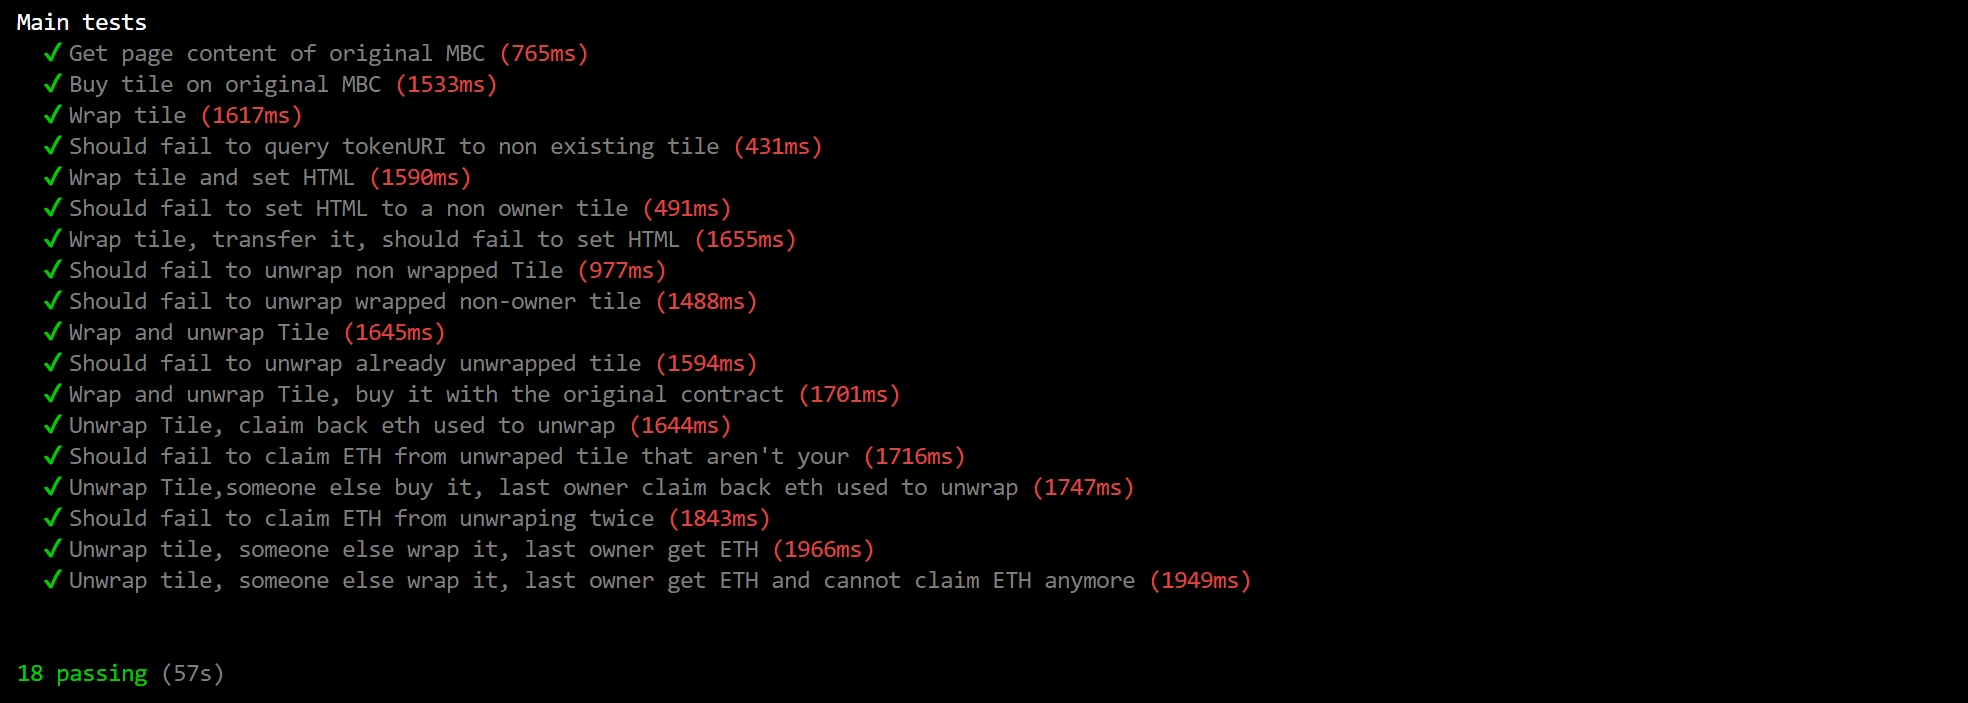
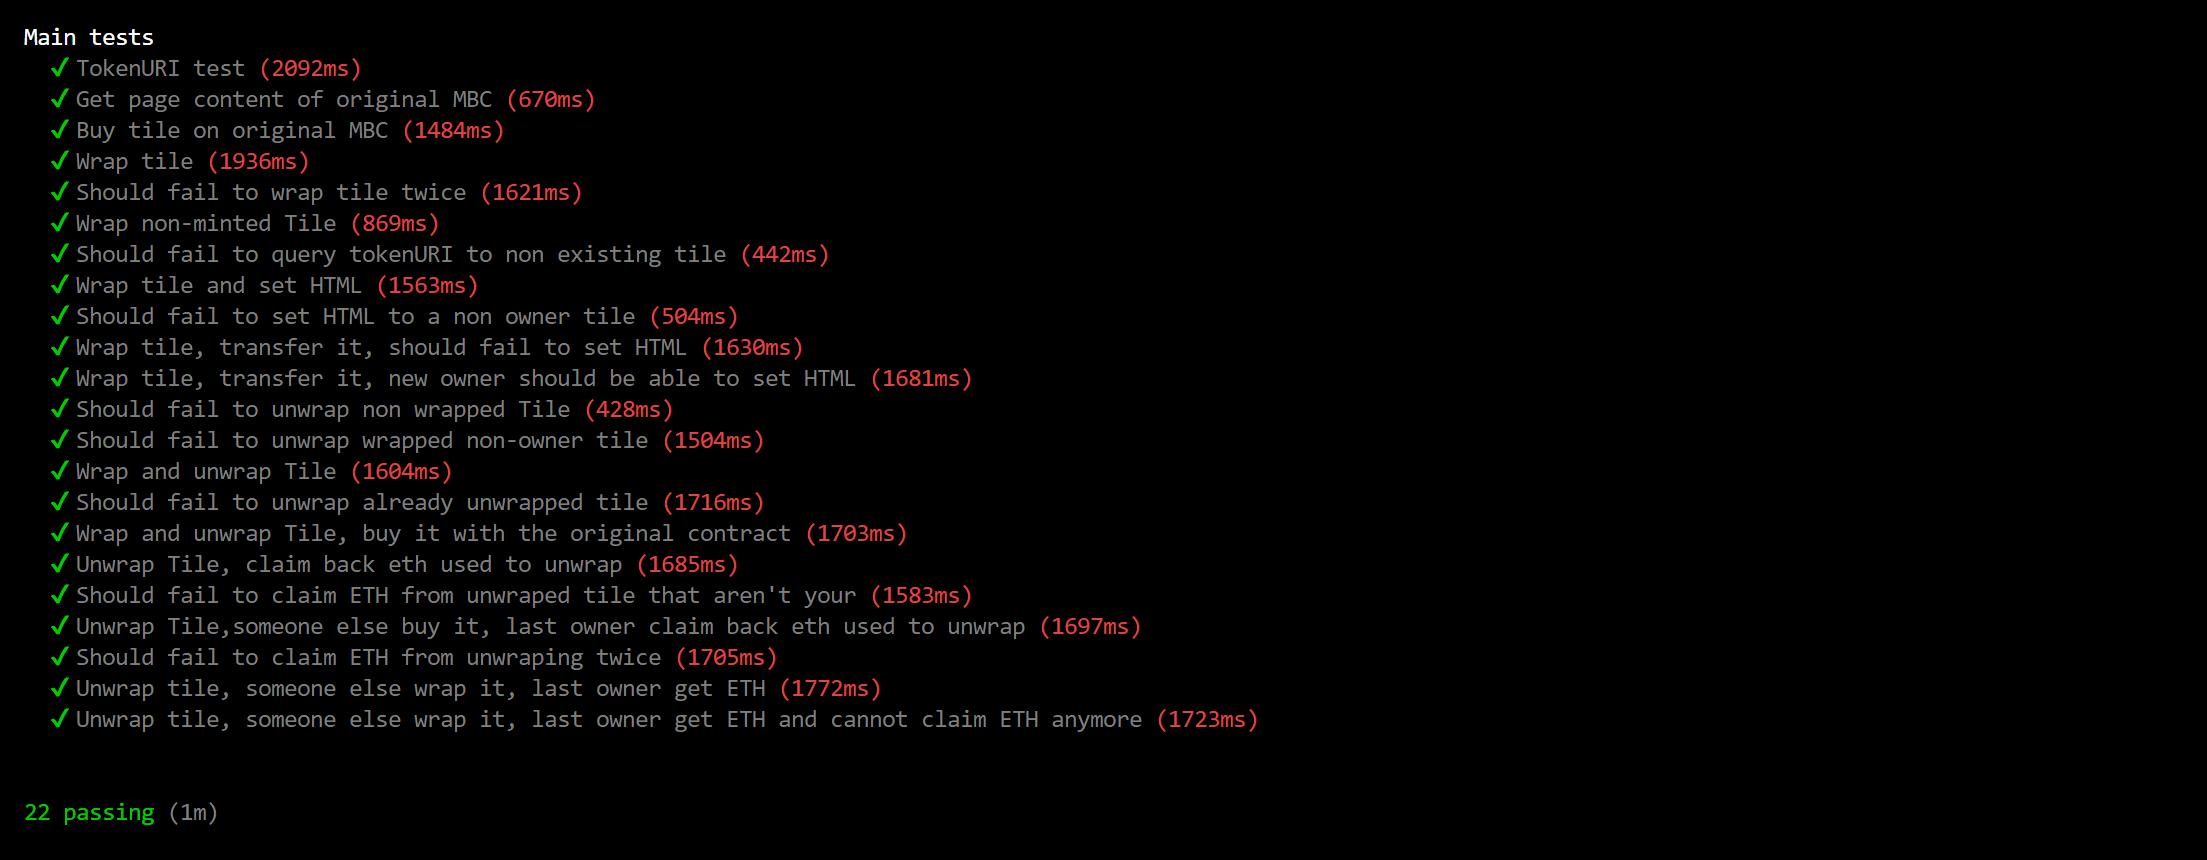
wip

Changed region(s): [[0.0, 0.0, 0.6509, 0.8663], [0.0, 0.926, 0.124, 0.9858]]

diff --git a/test/Lock.ts b/test/Lock.ts
@@ -74,164 +74,175 @@ describe("Main tests", function () {
     await ctx.wrapped_mbc.connect(ctx.imp_gus).wrap(1, 2, 0, "", { value: ethers.utils.parseEther("2.4") });
     const tokenId = await ctx.wrapped_mbc.coordinateToTokenID(1, 2, 0);
     const tokenURI = await ctx.wrapped_mbc.tokenURI(tokenId);
-    console.log(tokenURI);
   });
 
-  // it("Get page content of original MBC", async () => {
-  //   const ctx = await newContext();
-  //   const res = await ctx.mbc.pages(0, 0, 0);
-  //   expect(res[1]).to.equal("<h1>HELLO WORLD</h1>");
-  // });
+  it("Get page content of original MBC", async () => {
+    const ctx = await newContext();
+    const res = await ctx.mbc.pages(0, 0, 0);
+    expect(res[1]).to.equal("<h1>HELLO WORLD</h1>");
+  });
 
-  // it("Buy tile on original MBC", async () => {
-  //   const ctx = await newContext();
-  //   await ctx.mbc.connect(ctx.imp_gus).buyTile(0, 0, 1, "hi", { value: ethers.utils.parseEther("15") });
-  // });
+  it("Buy tile on original MBC", async () => {
+    const ctx = await newContext();
+    await ctx.mbc.connect(ctx.imp_gus).buyTile(0, 0, 1, "hi", { value: ethers.utils.parseEther("15") });
+  });
 
-  // it("Wrap tile", async () => {
-  //   const ctx = await newContext();
-  //   await ctx.wrapped_mbc.connect(ctx.imp_gus).wrap(0, 0, 1, "", { value: ethers.utils.parseEther("15") });
-  //   const tokenId = await ctx.wrapped_mbc.coordinateToTokenID(0, 0, 1);
-  //   const tokenURI = await ctx.wrapped_mbc.tokenURI(tokenId);
-  // });
+  it("Wrap tile", async () => {
+    const ctx = await newContext();
+    await ctx.wrapped_mbc.connect(ctx.imp_gus).wrap(0, 0, 1, "", { value: ethers.utils.parseEther("15") });
+    const tokenId = await ctx.wrapped_mbc.coordinateToTokenID(0, 0, 1);
+    const tokenURI = await ctx.wrapped_mbc.tokenURI(tokenId);
+  });
 
-  // it("Should fail to query tokenURI to non existing tile", async () => {
-  //   const ctx = await newContext();
-  //   await shouldFail(async () => await ctx.wrapped_mbc.tokenURI(ethers.BigNumber.from("546454")), "ERC721: invalid token ID");
-  // });
-
-  // it("Wrap tile and set HTML", async () => {
-  //   const ctx = await newContext();
-  //   await ctx.wrapped_mbc.connect(ctx.imp_gus).wrap(0, 0, 1, "hi gus", { value: ethers.utils.parseEther("15") });
-  //   const res = await ctx.mbc.pages(0, 0, 1);
-  //   expect(res[1]).to.equal("hi gus");
-  //   await ctx.wrapped_mbc.connect(ctx.imp_gus).setHtml(0, 0, 1, "osirfjior");
-  //   const res2 = await ctx.mbc.pages(0, 0, 1);
-  //   expect(res2[1]).to.equal("osirfjior");
-  // });
-
-  // it("Should fail to set HTML to a non owner tile", async () => {
-  //   const ctx = await newContext();
-  //   await shouldFail(async () => await ctx.wrapped_mbc.connect(ctx.imp_gus).setHtml(0, 0, 1, "I like train"), "");
-  // });
-
-  // it("Wrap tile, transfer it, should fail to set HTML", async () => {
-  //   const ctx = await newContext();
-  //   await ctx.wrapped_mbc.connect(ctx.imp_gus).wrap(0, 0, 1, "hi gus", { value: ethers.utils.parseEther("15") });
-  //   const tokenId = await ctx.wrapped_mbc.getTokenId(0, 0, 1);
-  //   await ctx.wrapped_mbc.connect(ctx.imp_gus).transferFrom(GUS, DEZMOU, tokenId);
-  //   await shouldFail(async () => await ctx.wrapped_mbc.connect(ctx.imp_gus).setHtml(0, 0, 1, "I like train"), "");
-  // });
-
-  // it("Wrap tile, transfer it, new owner should be able to set HTML", async () => {
-  //   const ctx = await newContext();
-  //   await ctx.wrapped_mbc.connect(ctx.imp_gus).wrap(0, 0, 1, "hi gus", { value: ethers.utils.parseEther("15") });
-  //   const tokenId = await ctx.wrapped_mbc.getTokenId(0, 0, 1);
-  //   await ctx.wrapped_mbc.connect(ctx.imp_gus).transferFrom(GUS, DEZMOU, tokenId);
-  //   await ctx.wrapped_mbc.connect(ctx.imp_dezmou).setHtml(0, 0, 1, "I like train")
-  // });
-
-  // it("Should fail to unwrap non wrapped Tile", async () => {
-  //   const ctx = await newContext();
-  //   await shouldFail(async () => await ctx.wrapped_mbc.connect(ctx.imp_gus).unWrap(0, 0, 1, ethers.utils.parseEther("15")), "");
-  // });
-
-  // it("Should fail to unwrap wrapped non-owner tile", async () => {
-  //   const ctx = await newContext();
-  //   await ctx.wrapped_mbc.connect(ctx.imp_gus).wrap(0, 0, 1, "hi gus", { value: ethers.utils.parseEther("15") });
-  //   await shouldFail(async () => await ctx.wrapped_mbc.connect(ctx.imp_dezmou).unWrap(0, 0, 1, ethers.utils.parseEther("15")), "");
-  // });
-
-  // it("Wrap and unwrap Tile", async () => {
-  //   const ctx = await newContext();
-  //   await ctx.wrapped_mbc.connect(ctx.imp_gus).wrap(0, 0, 1, "hi gus", { value: ethers.utils.parseEther("15") });
-  //   await ctx.wrapped_mbc.connect(ctx.imp_gus).unWrap(0, 0, 1, ethers.utils.parseEther("15"));
-  // });
-
-  // it("Should fail to unwrap already unwrapped tile", async () => {
-  //   const ctx = await newContext();
-  //   await ctx.wrapped_mbc.connect(ctx.imp_gus).wrap(0, 0, 1, "hi gus", { value: ethers.utils.parseEther("15") });
-  //   await ctx.wrapped_mbc.connect(ctx.imp_gus).unWrap(0, 0, 1, ethers.utils.parseEther("15"));
-  //   await shouldFail(async () => await ctx.wrapped_mbc.connect(ctx.imp_gus).unWrap(0, 0, 1, ethers.utils.parseEther("15")), "");
-  // });
+  it("Should fail to wrap tile twice", async () => {
+    const ctx = await newContext();
+    await ctx.wrapped_mbc.connect(ctx.imp_gus).wrap(0, 0, 1, "", { value: ethers.utils.parseEther("15") });
+    await shouldFail(async () =>   await ctx.wrapped_mbc.connect(ctx.imp_gus).wrap(0, 0, 1, "", { value: ethers.utils.parseEther("15") }), "");
+  });
 
 
-  // it("Wrap and unwrap Tile, buy it with the original contract", async () => {
-  //   const ctx = await newContext();
-  //   await ctx.wrapped_mbc.connect(ctx.imp_gus).wrap(0, 0, 1, "hi gus", { value: ethers.utils.parseEther("15") });
-  //   await ctx.wrapped_mbc.connect(ctx.imp_gus).unWrap(0, 0, 1, ethers.utils.parseEther("1"));
-  //   await ctx.mbc.connect(ctx.imp_gus).buyTile(0, 0, 1, "hi", { value: ethers.utils.parseEther("1") })
-  //   const res = await ctx.mbc.pages(0, 0, 1);
-  //   expect(res[0]).to.equal(GUS);
-  // });
+  it("Wrap non-minted Tile", async () => {
+    const ctx = await newContext();
+    await ctx.wrapped_mbc.connect(ctx.imp_gus).wrap(485, 0, 1, "", { value: ethers.utils.parseEther("0.5") });
+  });
 
-  // it("Unwrap Tile, claim back eth used to unwrap", async () => {
-  //   const ctx = await newContext();
-  //   await ctx.wrapped_mbc.connect(ctx.imp_gus).wrap(0, 0, 1, "hi gus", { value: ethers.utils.parseEther("15") });
-  //   await ctx.wrapped_mbc.connect(ctx.imp_gus).unWrap(0, 0, 1, ethers.utils.parseEther("1"));
-  //   await ctx.mbc.connect(ctx.imp_gus).buyTile(0, 0, 1, "hi", { value: ethers.utils.parseEther("1") })
-  //   const tmpGusBalance = await ethers.provider.getBalance(GUS);
-  //   await ctx.wrapped_mbc.connect(ctx.imp_gus).claimEthFromUnwrappedTile(0, 0, 1);
-  //   const finalGusBalance = await ethers.provider.getBalance(GUS);
-  //   const res = ethers.utils.formatEther(finalGusBalance.sub(tmpGusBalance));
-  //   expect(res.startsWith("0.94")).to.equal(true);
-  // });
+  it("Should fail to query tokenURI to non existing tile", async () => {
+    const ctx = await newContext();
+    await shouldFail(async () => await ctx.wrapped_mbc.tokenURI(ethers.BigNumber.from("546454")), "ERC721: invalid token ID");
+  });
 
-  // it("Should fail to claim ETH from unwraped tile that aren't your", async () => {
-  //   const ctx = await newContext();
-  //   await ctx.wrapped_mbc.connect(ctx.imp_gus).wrap(0, 0, 1, "hi gus", { value: ethers.utils.parseEther("15") });
-  //   await ctx.wrapped_mbc.connect(ctx.imp_gus).unWrap(0, 0, 1, ethers.utils.parseEther("1"));
-  //   await ctx.mbc.connect(ctx.imp_gus).buyTile(0, 0, 1, "hi", { value: ethers.utils.parseEther("1") })
-  //   await shouldFail(async () => await ctx.wrapped_mbc.connect(ctx.imp_dezmou).claimEthFromUnwrappedTile(0, 0, 1), "");
-  // });
+  it("Wrap tile and set HTML", async () => {
+    const ctx = await newContext();
+    await ctx.wrapped_mbc.connect(ctx.imp_gus).wrap(0, 0, 1, "hi gus", { value: ethers.utils.parseEther("15") });
+    const res = await ctx.mbc.pages(0, 0, 1);
+    expect(res[1]).to.equal("hi gus");
+    await ctx.wrapped_mbc.connect(ctx.imp_gus).setHtml(0, 0, 1, "osirfjior");
+    const res2 = await ctx.mbc.pages(0, 0, 1);
+    expect(res2[1]).to.equal("osirfjior");
+  });
 
-  // it("Unwrap Tile,someone else buy it, last owner claim back eth used to unwrap", async () => {
-  //   const ctx = await newContext();
-  //   await ctx.wrapped_mbc.connect(ctx.imp_gus).wrap(0, 0, 1, "hi gus", { value: ethers.utils.parseEther("15") });
-  //   await ctx.wrapped_mbc.connect(ctx.imp_gus).unWrap(0, 0, 1, ethers.utils.parseEther("1"));
-  //   await ctx.mbc.connect(ctx.imp_dezmou).buyTile(0, 0, 1, "hi", { value: ethers.utils.parseEther("1") })
-  //   const tmpGusBalance = await ethers.provider.getBalance(GUS);
-  //   await ctx.wrapped_mbc.connect(ctx.imp_gus).claimEthFromUnwrappedTile(0, 0, 1);
-  //   const finalGusBalance = await ethers.provider.getBalance(GUS);
-  //   const res = ethers.utils.formatEther(finalGusBalance.sub(tmpGusBalance));
-  //   expect(res.startsWith("0.94")).to.equal(true);
-  // });
+  it("Should fail to set HTML to a non owner tile", async () => {
+    const ctx = await newContext();
+    await shouldFail(async () => await ctx.wrapped_mbc.connect(ctx.imp_gus).setHtml(0, 0, 1, "I like train"), "");
+  });
 
-  // it("Should fail to claim ETH from unwraping twice", async () => {
-  //   const ctx = await newContext();
-  //   await ctx.wrapped_mbc.connect(ctx.imp_gus).wrap(0, 0, 1, "hi gus", { value: ethers.utils.parseEther("15") });
-  //   await ctx.wrapped_mbc.connect(ctx.imp_gus).unWrap(0, 0, 1, ethers.utils.parseEther("1"));
-  //   await ctx.mbc.connect(ctx.imp_gus).buyTile(0, 0, 1, "hi", { value: ethers.utils.parseEther("1") })
-  //   await ctx.wrapped_mbc.connect(ctx.imp_gus).claimEthFromUnwrappedTile(0, 0, 1);
-  //   await shouldFail(async () => await ctx.wrapped_mbc.connect(ctx.imp_gus).claimEthFromUnwrappedTile(0, 0, 1), "");
-  // });
+  it("Wrap tile, transfer it, should fail to set HTML", async () => {
+    const ctx = await newContext();
+    await ctx.wrapped_mbc.connect(ctx.imp_gus).wrap(0, 0, 1, "hi gus", { value: ethers.utils.parseEther("15") });
+    const tokenId = await ctx.wrapped_mbc.getTokenId(0, 0, 1);
+    await ctx.wrapped_mbc.connect(ctx.imp_gus).transferFrom(GUS, DEZMOU, tokenId);
+    await shouldFail(async () => await ctx.wrapped_mbc.connect(ctx.imp_gus).setHtml(0, 0, 1, "I like train"), "");
+  });
 
-  // it("Unwrap tile, someone else wrap it, last owner get ETH", async () => {
-  //   const ctx = await newContext();
-  //   await ctx.wrapped_mbc.connect(ctx.imp_gus).wrap(0, 0, 1, "hi gus", { value: ethers.utils.parseEther("15") });
-  //   await ctx.wrapped_mbc.connect(ctx.imp_gus).unWrap(0, 0, 1, ethers.utils.parseEther("1"));
-  //   const gusBalance = await ethers.provider.getBalance(GUS);
-  //   await ctx.mbc.connect(ctx.imp_dezmou).buyTile(0, 0, 1, "soupe", { value: ethers.utils.parseEther("1") });
-  //   await ctx.mbc.connect(ctx.imp_dezmou).setPrice(0, 0, 1, ethers.utils.parseEther("2"));
-  //   await ctx.wrapped_mbc.connect(ctx.imp_dezmou).wrap(0, 0, 1, "I like train", { value: ethers.utils.parseEther("2") });
-  //   const gusBalanceAfter = await ethers.provider.getBalance(GUS);
-  //   const res = ethers.utils.formatEther(gusBalanceAfter.sub(gusBalance));
-  //   expect(res).to.equal("0.95");
-  // });
+  it("Wrap tile, transfer it, new owner should be able to set HTML", async () => {
+    const ctx = await newContext();
+    await ctx.wrapped_mbc.connect(ctx.imp_gus).wrap(0, 0, 1, "hi gus", { value: ethers.utils.parseEther("15") });
+    const tokenId = await ctx.wrapped_mbc.getTokenId(0, 0, 1);
+    await ctx.wrapped_mbc.connect(ctx.imp_gus).transferFrom(GUS, DEZMOU, tokenId);
+    await ctx.wrapped_mbc.connect(ctx.imp_dezmou).setHtml(0, 0, 1, "I like train")
+  });
 
-  // it("Unwrap tile, someone else wrap it, last owner get ETH and cannot claim ETH anymore", async () => {
-  //   const ctx = await newContext();
-  //   await ctx.wrapped_mbc.connect(ctx.imp_gus).wrap(0, 0, 1, "hi gus", { value: ethers.utils.parseEther("15") });
-  //   await ctx.wrapped_mbc.connect(ctx.imp_gus).unWrap(0, 0, 1, ethers.utils.parseEther("1"));
-  //   const gusBalance = await ethers.provider.getBalance(GUS);
-  //   await ctx.mbc.connect(ctx.imp_dezmou).buyTile(0, 0, 1, "soupe", { value: ethers.utils.parseEther("1") });
-  //   await ctx.mbc.connect(ctx.imp_dezmou).setPrice(0, 0, 1, ethers.utils.parseEther("2"));
-  //   await ctx.wrapped_mbc.connect(ctx.imp_dezmou).wrap(0, 0, 1, "I like train", { value: ethers.utils.parseEther("2") });
-  //   const gusBalanceAfter = await ethers.provider.getBalance(GUS);
-  //   const res = ethers.utils.formatEther(gusBalanceAfter.sub(gusBalance));
-  //   expect(res).to.equal("0.95");
-  //   await shouldFail(async () => await ctx.wrapped_mbc.connect(ctx.imp_gus).claimEthFromUnwrappedTile(0, 0, 1), "");
-  // });
+  it("Should fail to unwrap non wrapped Tile", async () => {
+    const ctx = await newContext();
+    await shouldFail(async () => await ctx.wrapped_mbc.connect(ctx.imp_gus).unWrap(0, 0, 1, ethers.utils.parseEther("15")), "");
+  });
+
+  it("Should fail to unwrap wrapped non-owner tile", async () => {
+    const ctx = await newContext();
+    await ctx.wrapped_mbc.connect(ctx.imp_gus).wrap(0, 0, 1, "hi gus", { value: ethers.utils.parseEther("15") });
+    await shouldFail(async () => await ctx.wrapped_mbc.connect(ctx.imp_dezmou).unWrap(0, 0, 1, ethers.utils.parseEther("15")), "");
+  });
+
+  it("Wrap and unwrap Tile", async () => {
+    const ctx = await newContext();
+    await ctx.wrapped_mbc.connect(ctx.imp_gus).wrap(0, 0, 1, "hi gus", { value: ethers.utils.parseEther("15") });
+    await ctx.wrapped_mbc.connect(ctx.imp_gus).unWrap(0, 0, 1, ethers.utils.parseEther("15"));
+  });
+
+  it("Should fail to unwrap already unwrapped tile", async () => {
+    const ctx = await newContext();
+    await ctx.wrapped_mbc.connect(ctx.imp_gus).wrap(0, 0, 1, "hi gus", { value: ethers.utils.parseEther("15") });
+    await ctx.wrapped_mbc.connect(ctx.imp_gus).unWrap(0, 0, 1, ethers.utils.parseEther("15"));
+    await shouldFail(async () => await ctx.wrapped_mbc.connect(ctx.imp_gus).unWrap(0, 0, 1, ethers.utils.parseEther("15")), "");
+  });
+
+
+  it("Wrap and unwrap Tile, buy it with the original contract", async () => {
+    const ctx = await newContext();
+    await ctx.wrapped_mbc.connect(ctx.imp_gus).wrap(0, 0, 1, "hi gus", { value: ethers.utils.parseEther("15") });
+    await ctx.wrapped_mbc.connect(ctx.imp_gus).unWrap(0, 0, 1, ethers.utils.parseEther("1"));
+    await ctx.mbc.connect(ctx.imp_gus).buyTile(0, 0, 1, "hi", { value: ethers.utils.parseEther("1") })
+    const res = await ctx.mbc.pages(0, 0, 1);
+    expect(res[0]).to.equal(GUS);
+  });
+
+  it("Unwrap Tile, claim back eth used to unwrap", async () => {
+    const ctx = await newContext();
+    await ctx.wrapped_mbc.connect(ctx.imp_gus).wrap(0, 0, 1, "hi gus", { value: ethers.utils.parseEther("15") });
+    await ctx.wrapped_mbc.connect(ctx.imp_gus).unWrap(0, 0, 1, ethers.utils.parseEther("1"));
+    await ctx.mbc.connect(ctx.imp_gus).buyTile(0, 0, 1, "hi", { value: ethers.utils.parseEther("1") })
+    const tmpGusBalance = await ethers.provider.getBalance(GUS);
+    await ctx.wrapped_mbc.connect(ctx.imp_gus).claimEthFromUnwrappedTile(0, 0, 1);
+    const finalGusBalance = await ethers.provider.getBalance(GUS);
+    const res = ethers.utils.formatEther(finalGusBalance.sub(tmpGusBalance));
+    expect(res.startsWith("0.94")).to.equal(true);
+  });
+
+  it("Should fail to claim ETH from unwraped tile that aren't your", async () => {
+    const ctx = await newContext();
+    await ctx.wrapped_mbc.connect(ctx.imp_gus).wrap(0, 0, 1, "hi gus", { value: ethers.utils.parseEther("15") });
+    await ctx.wrapped_mbc.connect(ctx.imp_gus).unWrap(0, 0, 1, ethers.utils.parseEther("1"));
+    await ctx.mbc.connect(ctx.imp_gus).buyTile(0, 0, 1, "hi", { value: ethers.utils.parseEther("1") })
+    await shouldFail(async () => await ctx.wrapped_mbc.connect(ctx.imp_dezmou).claimEthFromUnwrappedTile(0, 0, 1), "");
+  });
+
+  it("Unwrap Tile,someone else buy it, last owner claim back eth used to unwrap", async () => {
+    const ctx = await newContext();
+    await ctx.wrapped_mbc.connect(ctx.imp_gus).wrap(0, 0, 1, "hi gus", { value: ethers.utils.parseEther("15") });
+    await ctx.wrapped_mbc.connect(ctx.imp_gus).unWrap(0, 0, 1, ethers.utils.parseEther("1"));
+    await ctx.mbc.connect(ctx.imp_dezmou).buyTile(0, 0, 1, "hi", { value: ethers.utils.parseEther("1") })
+    const tmpGusBalance = await ethers.provider.getBalance(GUS);
+    await ctx.wrapped_mbc.connect(ctx.imp_gus).claimEthFromUnwrappedTile(0, 0, 1);
+    const finalGusBalance = await ethers.provider.getBalance(GUS);
+    const res = ethers.utils.formatEther(finalGusBalance.sub(tmpGusBalance));
+    expect(res.startsWith("0.94")).to.equal(true);
+  });
+
+  it("Should fail to claim ETH from unwraping twice", async () => {
+    const ctx = await newContext();
+    await ctx.wrapped_mbc.connect(ctx.imp_gus).wrap(0, 0, 1, "hi gus", { value: ethers.utils.parseEther("15") });
+    await ctx.wrapped_mbc.connect(ctx.imp_gus).unWrap(0, 0, 1, ethers.utils.parseEther("1"));
+    await ctx.mbc.connect(ctx.imp_gus).buyTile(0, 0, 1, "hi", { value: ethers.utils.parseEther("1") })
+    await ctx.wrapped_mbc.connect(ctx.imp_gus).claimEthFromUnwrappedTile(0, 0, 1);
+    await shouldFail(async () => await ctx.wrapped_mbc.connect(ctx.imp_gus).claimEthFromUnwrappedTile(0, 0, 1), "");
+  });
+
+  it("Unwrap tile, someone else wrap it, last owner get ETH", async () => {
+    const ctx = await newContext();
+    await ctx.wrapped_mbc.connect(ctx.imp_gus).wrap(0, 0, 1, "hi gus", { value: ethers.utils.parseEther("15") });
+    await ctx.wrapped_mbc.connect(ctx.imp_gus).unWrap(0, 0, 1, ethers.utils.parseEther("1"));
+    const gusBalance = await ethers.provider.getBalance(GUS);
+    await ctx.mbc.connect(ctx.imp_dezmou).buyTile(0, 0, 1, "soupe", { value: ethers.utils.parseEther("1") });
+    await ctx.mbc.connect(ctx.imp_dezmou).setPrice(0, 0, 1, ethers.utils.parseEther("2"));
+    await ctx.wrapped_mbc.connect(ctx.imp_dezmou).wrap(0, 0, 1, "I like train", { value: ethers.utils.parseEther("2") });
+    const gusBalanceAfter = await ethers.provider.getBalance(GUS);
+    const res = ethers.utils.formatEther(gusBalanceAfter.sub(gusBalance));
+    expect(res).to.equal("0.95");
+  });
+
+  it("Unwrap tile, someone else wrap it, last owner get ETH and cannot claim ETH anymore", async () => {
+    const ctx = await newContext();
+    await ctx.wrapped_mbc.connect(ctx.imp_gus).wrap(0, 0, 1, "hi gus", { value: ethers.utils.parseEther("15") });
+    await ctx.wrapped_mbc.connect(ctx.imp_gus).unWrap(0, 0, 1, ethers.utils.parseEther("1"));
+    const gusBalance = await ethers.provider.getBalance(GUS);
+    await ctx.mbc.connect(ctx.imp_dezmou).buyTile(0, 0, 1, "soupe", { value: ethers.utils.parseEther("1") });
+    await ctx.mbc.connect(ctx.imp_dezmou).setPrice(0, 0, 1, ethers.utils.parseEther("2"));
+    await ctx.wrapped_mbc.connect(ctx.imp_dezmou).wrap(0, 0, 1, "I like train", { value: ethers.utils.parseEther("2") });
+    const gusBalanceAfter = await ethers.provider.getBalance(GUS);
+    const res = ethers.utils.formatEther(gusBalanceAfter.sub(gusBalance));
+    expect(res).to.equal("0.95");
+    await shouldFail(async () => await ctx.wrapped_mbc.connect(ctx.imp_gus).claimEthFromUnwrappedTile(0, 0, 1), "");
+  });
 
 });
 

diff --git a/README.md b/README.md
@@ -27,13 +27,15 @@ The same caveats for the wrapping process apply here (sniping issue and 5% lose)
 # Technical specs 
 
 ## Battle tested
-The wrapper contract has been tested on every case and isn't vulnerable to attacks
+The wrapper contract has been tested on every case and isn't vulnerable to attacks.
+
+Tests are done on a fork or mainNet with the real state of original MBC contract.
 
 ![alt text](./tests.PNG "Tests")
 
 ## On chain pictures
-To preserve the on-chain spirit of the project, no external link (not even IPFS) will be used to display properties and image of the token on website like openSea. 
+To preserve the on-chain spirit of the project, no external link (not even IPFS) is used to display properties and image of the token on website like openSea. 
 
-All data will be generated on chain with a SVG picture showing which page and coordinate is the tile.
+All data is generated on chain with a SVG picture showing which page and coordinate is the tile.
 
 ![alt text](./openSea.PNG "Tests")
